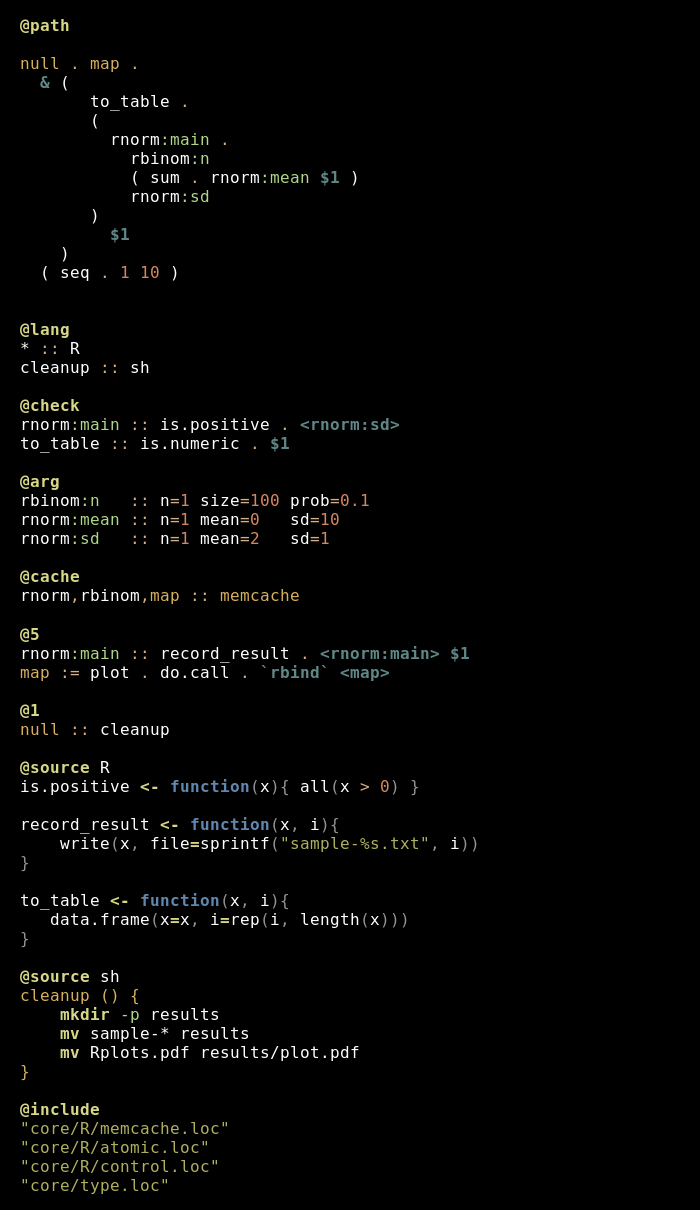
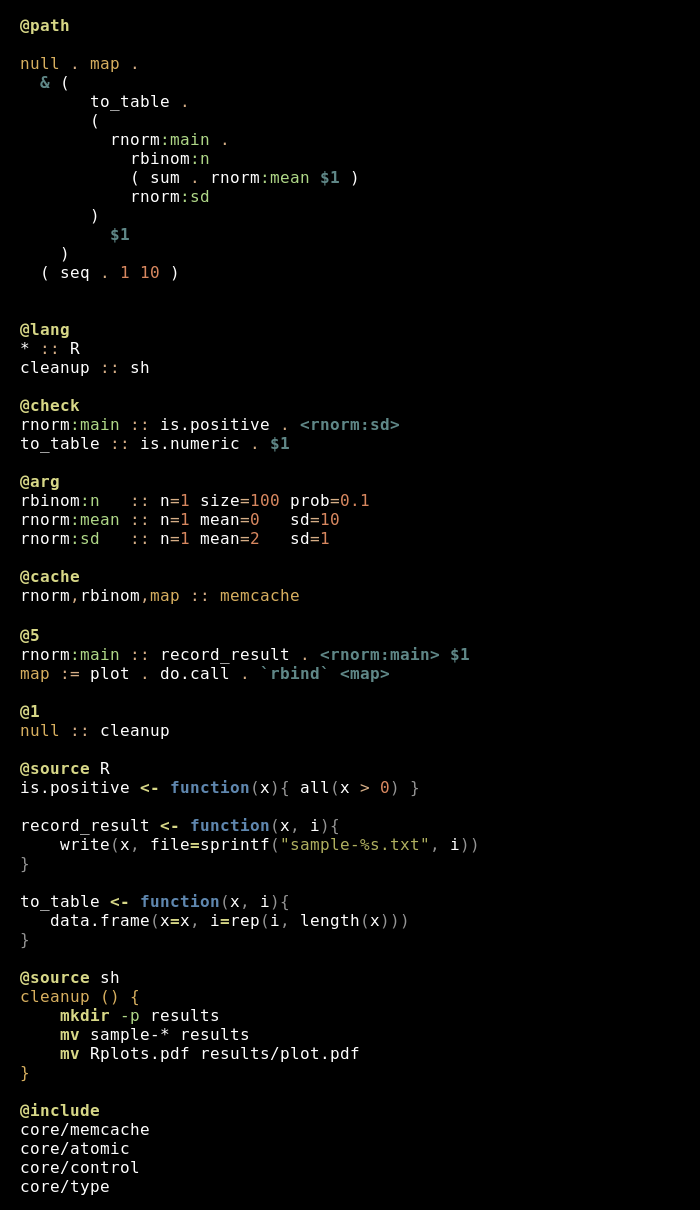
Update examples and images

diff --git a/README.md b/README.md
@@ -245,7 +245,7 @@ the LOC equivalent of a `for` loop. The `&(...)` phrase effectively takes
 a composition and transforms it into a function that is passed as an argument
 to `map`. Arguments passed into this composition are accessed with `$N` calls.
 The `map` function is required to be defined in the source language (it is
-imported here with `"core/R/control.R"`).
+imported here with `core/control`).
 
 This script converts the previous random number generator into a function that
 is mapped across a sequence of numbers. Note that is uses two language: R and
